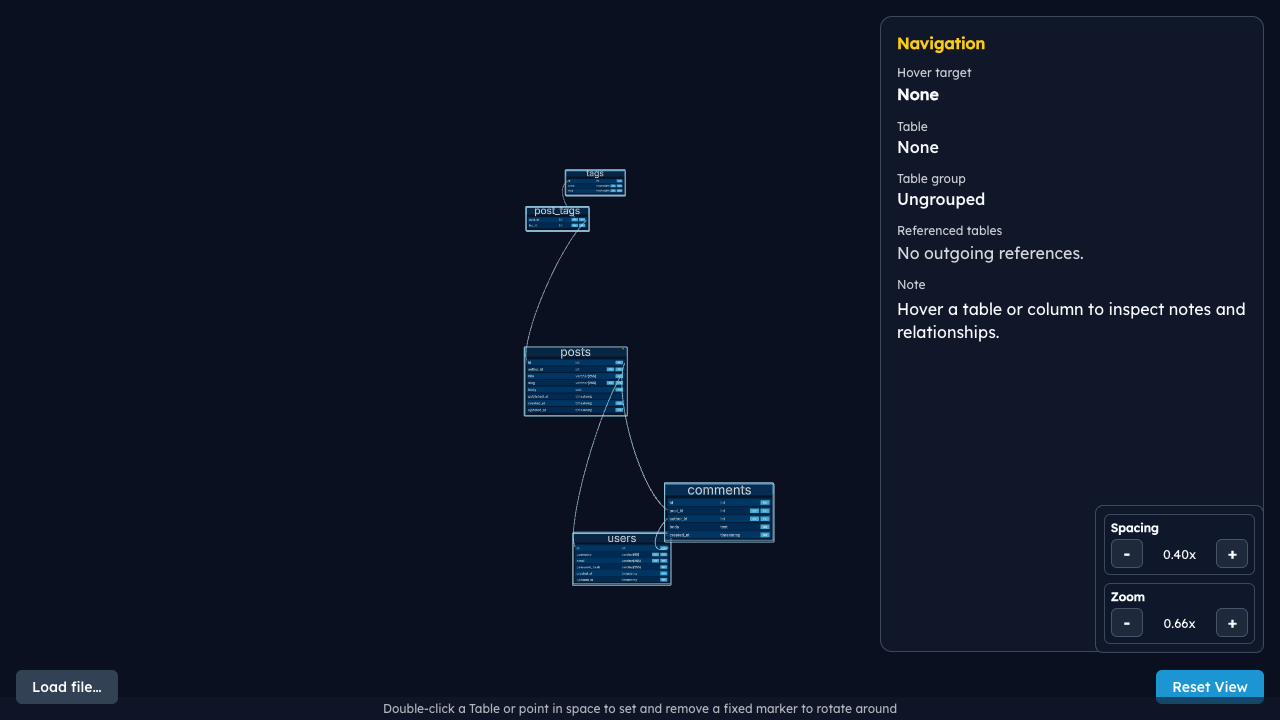
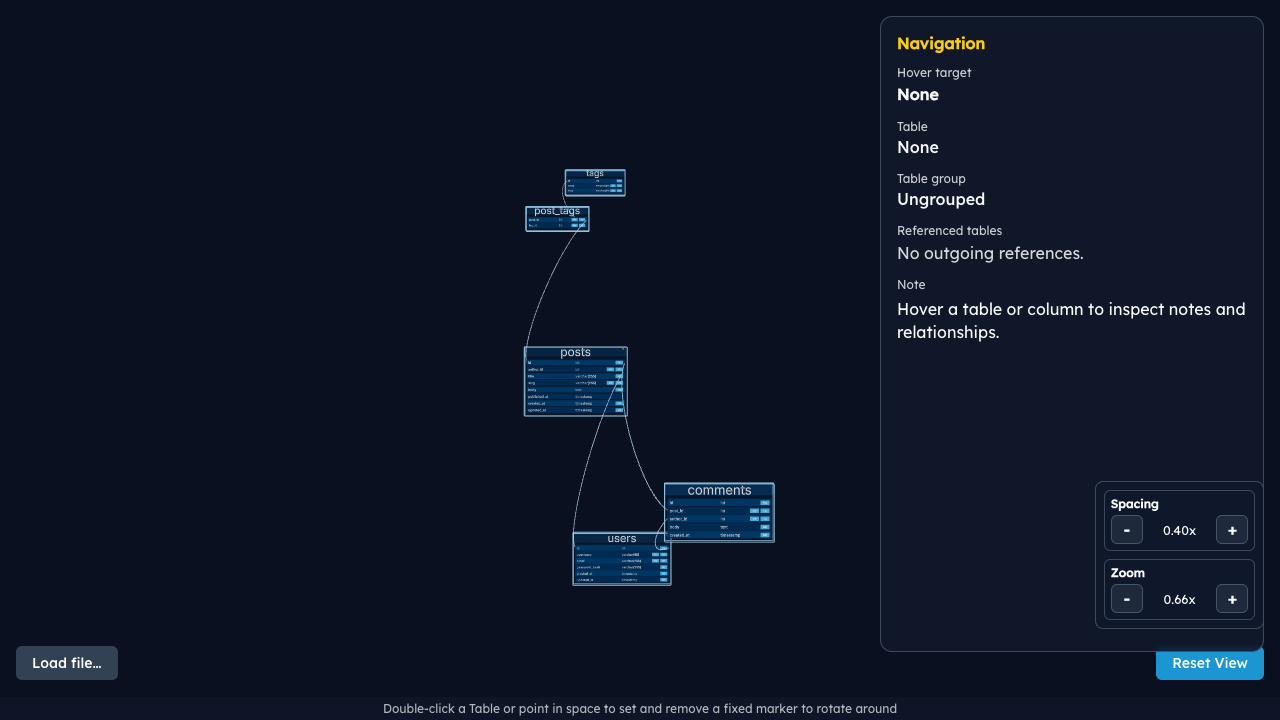
fix: push buttons above help bar to prevent overlap
Increase bottom offset of Load File, Reset View, and spacing/zoom
controls by 1.5rem so they sit clear of the navigation help text bar.

Changed region(s): [[0.8438, 0.6722, 1.0, 0.9778], [0.0, 0.8861, 0.0938, 0.9778], [0.5312, 0.7333, 0.5938, 0.7639]]

diff --git a/src/ui/LoadFileButton.tsx b/src/ui/LoadFileButton.tsx
@@ -43,7 +43,7 @@ export default function LoadFileButton({ onLoad }: LoadFileButtonProps): ReactEl
         aria-label="Load a DBML file from disk"
         style={{
           position: 'fixed',
-          bottom: '1rem',
+          bottom: '2.5rem',
           left: '1rem',
           backgroundColor: '#334155',
           color: '#ffffff',

diff --git a/src/renderer/ResetViewButton.tsx b/src/renderer/ResetViewButton.tsx
@@ -12,7 +12,7 @@ export default function ResetViewButton({ onClick }: ResetViewButtonProps): Reac
       aria-label="Reset camera to overview"
       style={{
         position: 'fixed',
-        bottom: '1rem',
+        bottom: '2.5rem',
         right: '1rem',
         backgroundColor: '#1C95D3',
         color: '#ffffff',

diff --git a/src/renderer/Scene.tsx b/src/renderer/Scene.tsx
@@ -947,7 +947,7 @@ export default function Scene({ schema, onLoadFile }: SceneProps): ReactElement 
         style={{
           position: 'fixed',
           right: '1rem',
-          bottom: '4.2rem',
+          bottom: '5.7rem',
           display: 'grid',
           gap: '0.5rem',
           zIndex: 40,
